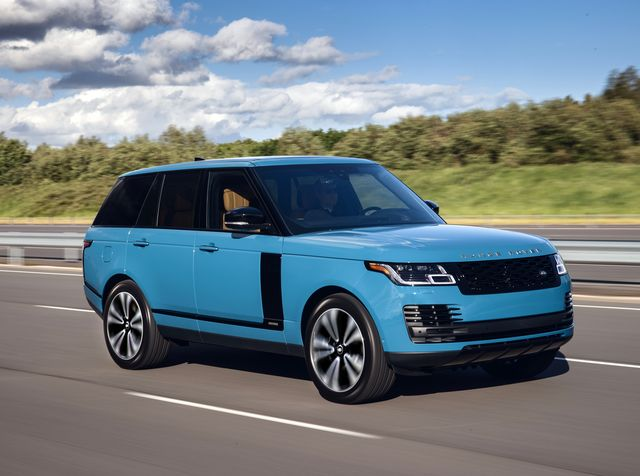
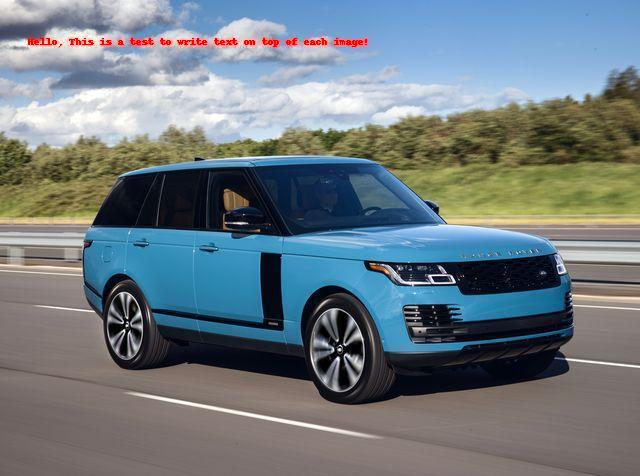
text on image

Changed region(s): [[0.0312, 0.0588, 0.5938, 0.1176]]

diff --git a/templates/minilabs/rgb.html b/templates/minilabs/rgb.html
@@ -43,7 +43,17 @@
     <title>RGB</title>
 {% endblock %}
 
+<!--taken from code in greet.html and changed a few things-->
+{% set project = "rgb" %}
 {% block content %}
+<p>Input text: {{myText}}! This is for the text on images.</p>
+<form action="/rgb" id="rgb" method="POST" >
+    <label for="myText">Enter Your Text</label>
+    <input name="myText" id="myText">
+    <input type="submit" value="Run!">
+</form>
+<!--end of code taken from greet.html-->
+
     <h1 class="text-center">RGB values within an Image</h1>
     <div class="container">
         <button onClick="rotateImg()">Rotate 1st Image</button>

diff --git a/algorithms/image.py b/algorithms/image.py
@@ -54,11 +54,11 @@ def image_data(path=Path("static/assets/images/"), img_list=None):  # path of st
         img_dict['binary_array'] = []
 
 # Start of pillow test code
-  #      img = Image.open(file)
-    #    d1 = ImageDraw.Draw(img)
-     #   d1.text((28, 36), "Hello, This is a test to write text on top of each image!", fill=(255, 0, 0))
-     #   img.show()
-        # img.save("images/image_text.jpg")
+        img = Image.open(file)
+        d1 = ImageDraw.Draw(img)
+        d1.text((28, 36), "Hello, This is a test to write text on top of each image!", fill=(255, 0, 0))
+        # img.show()
+        img.save(file)
 # End of pillow test code
 
         # 'data' is a list of RGB data, the list is traversed and hex and binary lists are calculated and formatted
